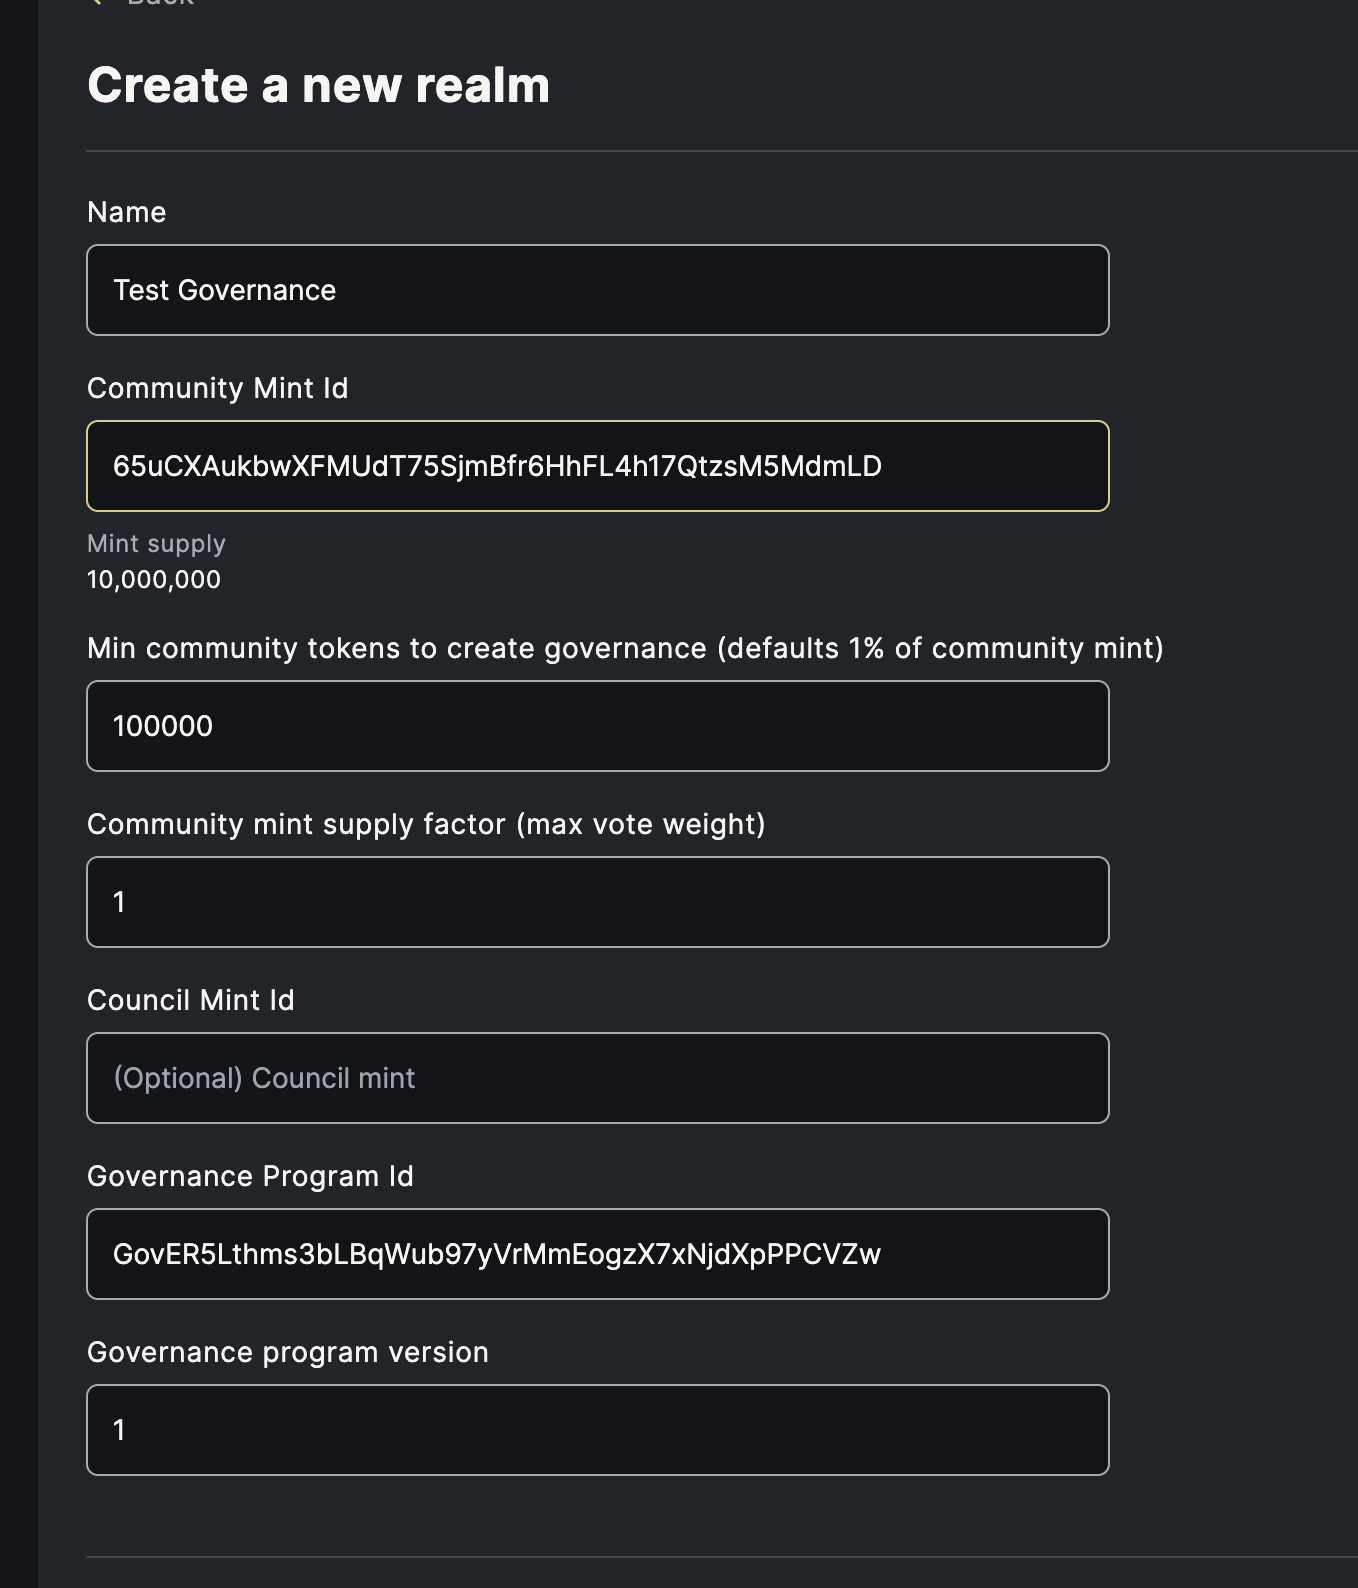
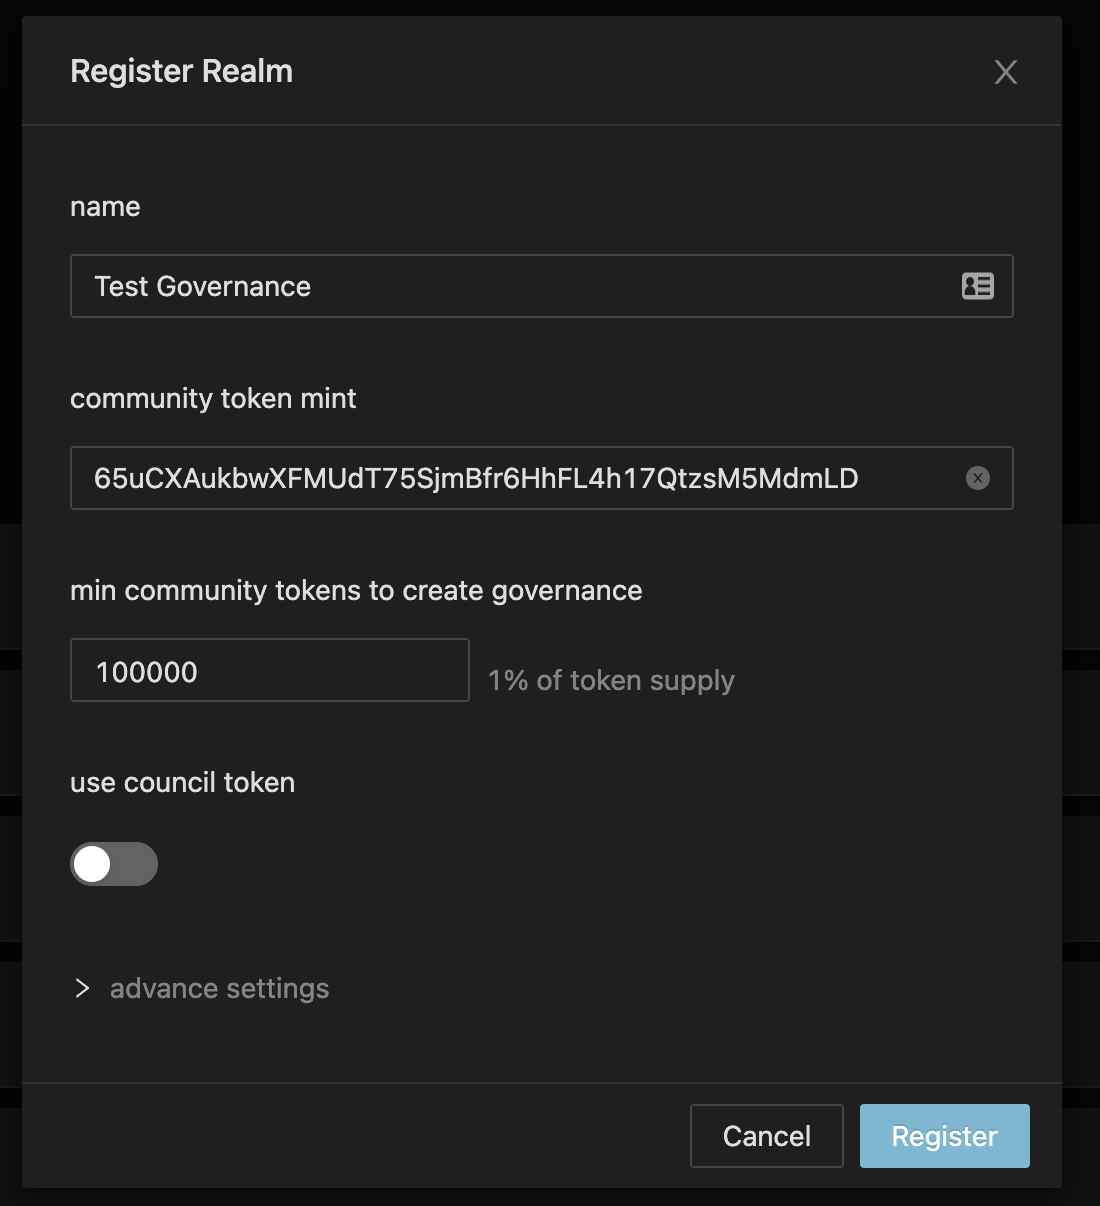
Ready to test in dev

diff --git a/packages/spl-token-bonding/src/index.ts b/packages/spl-token-bonding/src/index.ts
@@ -403,7 +403,7 @@ export interface ICurve extends CurveV0 {
 export class SplTokenBonding extends AnchorSdk<SplTokenBondingIDL> {
   state: ProgramStateV0 | undefined;
 
-  static ID = new PublicKey("Ep23h6U7HvBb2NRGRTxxH5mekpV4V3b6AJh76mra5Yiv");
+  static ID = new PublicKey("TBondmkCYxaPCKG4CHYfVTcwQ8on31xnJrPzk8F8WsS");
 
   static async init(
     provider: Provider,

diff --git a/programs/spl-token-bonding/src/lib.rs b/programs/spl-token-bonding/src/lib.rs
@@ -19,7 +19,7 @@ pub mod state;
 pub mod uint;
 pub mod util;
 
-declare_id!("Ep23h6U7HvBb2NRGRTxxH5mekpV4V3b6AJh76mra5Yiv");
+declare_id!("TBondmkCYxaPCKG4CHYfVTcwQ8on31xnJrPzk8F8WsS");
 
 #[program]
 pub mod spl_token_bonding {

diff --git a/packages/docs/blog/2021-12-21-governance/index.md b/packages/docs/blog/2021-12-21-governance/index.md
@@ -131,7 +131,7 @@ await provider.send(tx, [mintKeypair]);
 
 **Take note of the mint address above**. Mine was "65uCXAukbwXFMUdT75SjmBfr6HhFL4h17QtzsM5MdmLD"
 
-If you check your wallet, you should see our test governance token. After you're done with this guide, you can send it to anyone you'd like.
+Change your wallet network to devnet. If you check your wallet, you should see our test governance token. After you're done with this guide, you can send it to anyone you'd like.
 
 ![Wallet](./wallet.png)
 
@@ -139,8 +139,9 @@ If you check your wallet, you should see our test governance token. After you're
 
 First, to setup governance we must have deployed the anchor program once. If you haven't yet, run
 
-```
-anchor deploy --provider.cluster devnet
+```bash
+anchor build
+solana program deploy ./target/deploy/<YOUR_PROGRAM>.so -u devnet
 ```
 
 You'll also want to init the idl:
@@ -159,27 +160,19 @@ This command cannot be undone without the new upgrade authority signing off. Mak
 solana program set-upgrade-authority -u devnet <PROGRAM_ADDRESS> --new-upgrade-authority <YOUR_WALLET_ADDRESS>
 ```
 
-Now we will need to create a realm. Navigate to: https://realms.today?cluster=devnet
+Now we will need to create a realm. Navigate to: https://solana-labs.github.io/oyster-gov/#/?cluster=devnet
 
-Once you connect your wallet, you should be able to click this plus to add a realm:
+Once you connect your wallet, you should be able to click Register Realm:
 
-![Add Realm](./plus.png)
+![Add Realm](./create-realm.png)
 
 Fill out this form with your mint from earlier as the community mint id:
 
 ![Realm Form](./realm-form.png)
 
-You'll be taken to your governance page, I.e. https://realms.today/dao/5VchfiRHocpJWNRGHLaMmQBTRiNXT7JbVvxWEgQURpX?cluster=devnet
-
 Deposit your governance tokens using the deposit button
 
-![Deposit](./deposit.png)
-
-This next part, you need to (temporarily) do in the old governance UI. Take the address after /dao/ that you're at in the realms.today url, and paste it into this url.
-
-https://solana-labs.github.io/oyster-gov/#/realm/YOUR-REALM-ID?programId=GovER5Lthms3bLBqWub97yVrMmEogzX7xNjdXpPPCVZw
-
-You should be at the old governance UI. Click the dots, then create new governance
+Click the dots, then create new governance
 
 ![Create New Governance](./create-new.png)
 
@@ -189,11 +182,19 @@ Select Program, and fill out your program information. You can also fill out vot
 
 After you create your governance, you will be taken to a page at some url like this one:
 
-https://solana-labs.github.io/oyster-gov/#/governance/GSGB9BDcb29u8fbigqeFLz1JQ64C4G4H5KRQbzNDJUcJ?programId=GovER5Lthms3bLBqWub97yVrMmEogzX7xNjdXpPPCVZw
+https://solana-labs.github.io/oyster-gov/#/governance/GOVERNANCE-ID?programId=GovER5Lthms3bLBqWub97yVrMmEogzX7xNjdXpPPCVZw
 
 **Note the address after /governance**. Copy that to your clipboard, you'll need it in the next step.
 
 After you create this governance, you should be able to navigate back to the new UI, I.e. https://realms.today/dao/YOUR-REALM-ID?cluster=devnet.
+
+You can get YOUR-REALM-ID by looking at the url of the realm in the old UI. I.e:
+
+https://solana-labs.github.io/oyster-gov/#/realm/C4a4XC2MPfXGfYdH7DMrUZ7hymfi6DVLtULtmnwTD5rh?programId=GovER5Lthms3bLBqWub97yVrMmEogzX7xNjdXpPPCVZw
+
+has a realm id of C4a4XC2MPfXGfYdH7DMrUZ7hymfi6DVLtULtmnwTD5rh.
+
+We will use the new UI for the rest of this tutorial
 
 ## Deploy Your First Update
 
@@ -284,19 +285,19 @@ Get the address:
 solana address -k deploy.json
 ```
 
-Now airdrop some sol to it (run this a few times):
+Now airdrop some sol to it (run this a few times). On mainnet, you will need to fund this wallet:
 
 ```bash
 solana airdrop -u devnet 2 <DEPLOY_ADDRESS>
 ```
 
-Now delete that file to be safe:
+You may want to store the deploy key somewhere safe. Now delete that file so it cannot be compromised:
 
 ```bash
 rm deploy.json
 ```
 
-Now, send the deploy wallet enough of your governance token to create a proposal.
+Now, go back to the govenance UI and withdraw your tokens. You will need to send 1% of them to the deploy wallet so that it can create proposals.
 
 ### Github Actions
 
@@ -309,8 +310,8 @@ To get these in your repo, you'll want to clone https://github.com/StrataFoundat
 
 You will need to copy and edit the variables in:
 
-  * `.github/workflows/devnet-proposal.yaml` - When a commit is pushed to master, if the rust contracts have changed, create a proposal to devnet governance to release the new version 
-  * `.github/workflows/mainnet-proposal.yaml` - When release tags (ex v1.0.0) are pushed to master, if the rust contracts have changed, create a proposal to mainnet governance to release the new version
+  * `.github/workflows/devnet-proposal.yaml` - When a commit is pushed to master, if the rust contracts have changed, create a proposal to devnet governance to release the new version. Make sure to set `governance` to the dev governance we created here
+  * `.github/workflows/mainnet-proposal.yaml` - When release tags (ex v1.0.0) are pushed to master, if the rust contracts have changed, create a proposal to mainnet governance to release the new version. Make sure to set `governance` to a production governance, you will need to follow the above steps on mainnet _after_ you verify it works on devnet.
 
 In particular, make sure there's an entry for each program, and that you set `program, program-id, network, keypair, governance, signatory, name, description`. Signatory is the account that must "sign off" on the proposal.
 
